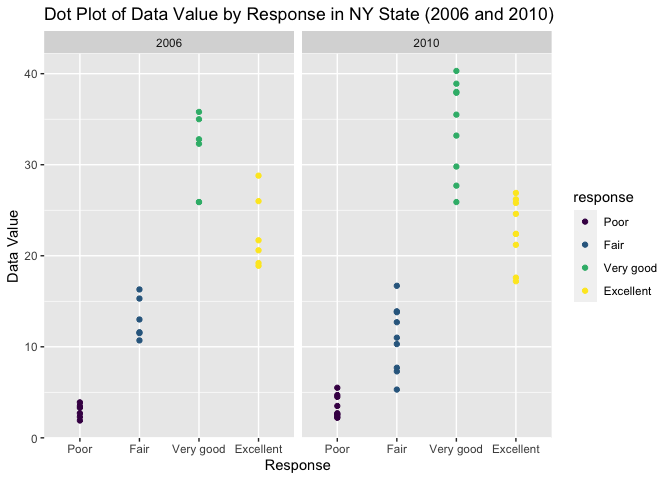
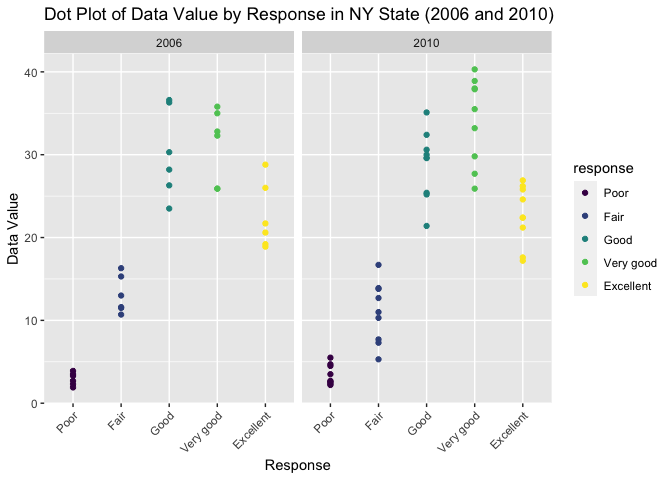
voila

diff --git a/p8105_hw3_co2554.md b/p8105_hw3_co2554.md
@@ -179,8 +179,8 @@ brfss_smart2010 |>
   separate(locationdesc, into = c("state", "county"), " - ") |> 
   select(-locationabbr) |>
   filter(topic == "Overall Health" & 
-         response %in% c("Excellent", "Very good", "good", "Fair", "Poor")) |> 
-  mutate(response = factor(response, levels = c("Poor", "Fair", "good", "Very good", "Excellent"), ordered = TRUE))
+         response %in% c("Excellent", "Very good", "Good", "Fair", "Poor")) |> 
+  mutate(response = factor(response, levels = c("Poor", "Fair", "Good", "Very good", "Excellent"), ordered = TRUE))
 ```
 
 Let’s determine how many states were observed at 7 or more locations in
@@ -199,42 +199,42 @@ brfss_smart2010_df |>
 
 | state | geo_location |
 |:------|-------------:|
-| AZ    |            8 |
-| CO    |           16 |
-| CT    |           28 |
-| DE    |           12 |
-| FL    |           28 |
-| GA    |           12 |
-| HI    |           16 |
-| ID    |            8 |
-| IL    |           12 |
-| IN    |            8 |
-| KS    |           12 |
-| LA    |           12 |
-| MA    |           32 |
-| MD    |           24 |
-| ME    |            8 |
-| MI    |           16 |
-| MN    |           16 |
-| MO    |            8 |
-| NC    |           28 |
-| NE    |           12 |
-| NH    |           20 |
-| NJ    |           32 |
-| NV    |            8 |
-| NY    |           20 |
-| OH    |           16 |
-| OK    |           12 |
-| OR    |           12 |
-| PA    |           40 |
-| RI    |           16 |
-| SC    |           12 |
-| SD    |            8 |
-| TN    |            8 |
-| TX    |            8 |
-| UT    |           20 |
-| VT    |           12 |
-| WA    |           16 |
+| AZ    |           10 |
+| CO    |           20 |
+| CT    |           35 |
+| DE    |           15 |
+| FL    |           35 |
+| GA    |           15 |
+| HI    |           20 |
+| ID    |           10 |
+| IL    |           15 |
+| IN    |           10 |
+| KS    |           15 |
+| LA    |           15 |
+| MA    |           40 |
+| MD    |           30 |
+| ME    |           10 |
+| MI    |           20 |
+| MN    |           20 |
+| MO    |           10 |
+| NC    |           35 |
+| NE    |           15 |
+| NH    |           25 |
+| NJ    |           40 |
+| NV    |           10 |
+| NY    |           25 |
+| OH    |           20 |
+| OK    |           15 |
+| OR    |           15 |
+| PA    |           50 |
+| RI    |           20 |
+| SC    |           15 |
+| SD    |           10 |
+| TN    |           10 |
+| TX    |           10 |
+| UT    |           25 |
+| VT    |           15 |
+| WA    |           20 |
 
 …and for the year 2010:
 
@@ -249,51 +249,51 @@ brfss_smart2010_df |>
 
 | state | geo_location |
 |:------|-------------:|
-| AL    |           12 |
-| AR    |           12 |
-| AZ    |           12 |
-| CA    |           48 |
-| CO    |           28 |
-| CT    |           20 |
-| DE    |           12 |
-| FL    |          164 |
-| GA    |           16 |
-| HI    |           16 |
-| IA    |            8 |
-| ID    |           24 |
-| IL    |            8 |
-| IN    |           12 |
-| KS    |           16 |
-| LA    |           20 |
-| MA    |           36 |
-| MD    |           48 |
-| ME    |           24 |
-| MI    |           16 |
-| MN    |           20 |
-| MO    |           12 |
-| MS    |            8 |
-| MT    |           12 |
-| NC    |           48 |
-| ND    |           12 |
-| NE    |           40 |
-| NH    |           20 |
-| NJ    |           76 |
-| NM    |           24 |
-| NV    |            8 |
-| NY    |           36 |
-| OH    |           32 |
-| OK    |           12 |
-| OR    |           16 |
-| PA    |           28 |
-| RI    |           20 |
-| SC    |           28 |
-| SD    |            8 |
-| TN    |           20 |
-| TX    |           64 |
-| UT    |           24 |
-| VT    |           24 |
-| WA    |           40 |
-| WY    |            8 |
+| AL    |           15 |
+| AR    |           15 |
+| AZ    |           15 |
+| CA    |           60 |
+| CO    |           35 |
+| CT    |           25 |
+| DE    |           15 |
+| FL    |          205 |
+| GA    |           20 |
+| HI    |           20 |
+| IA    |           10 |
+| ID    |           30 |
+| IL    |           10 |
+| IN    |           15 |
+| KS    |           20 |
+| LA    |           25 |
+| MA    |           45 |
+| MD    |           60 |
+| ME    |           30 |
+| MI    |           20 |
+| MN    |           25 |
+| MO    |           15 |
+| MS    |           10 |
+| MT    |           15 |
+| NC    |           60 |
+| ND    |           15 |
+| NE    |           50 |
+| NH    |           25 |
+| NJ    |           95 |
+| NM    |           30 |
+| NV    |           10 |
+| NY    |           45 |
+| OH    |           40 |
+| OK    |           15 |
+| OR    |           20 |
+| PA    |           35 |
+| RI    |           25 |
+| SC    |           35 |
+| SD    |           10 |
+| TN    |           25 |
+| TX    |           80 |
+| UT    |           30 |
+| VT    |           30 |
+| WA    |           50 |
+| WY    |           10 |
 
 In 2002, 36 states were observed at 7 or more locations. In 2010 45
 states were observed at 7 or more locations as well. This is a positive
@@ -346,7 +346,8 @@ ny_df =
   labs(title = "Dot Plot of Data Value by Response in NY State (2006 and 2010)",
        x = "Response",
        y = "Data Value") +
-  scale_color_viridis_d()
+  scale_color_viridis_d() +
+    theme(axis.text.x = element_text(angle = 45, hjust = 1))
 ```
 
 ![](p8105_hw3_co2554_files/figure-gfm/ny_plot-1.png)<!-- -->
@@ -357,7 +358,7 @@ From our output, we can see that `data_values` increase overall from
 
 ### Problem 3: MIMS NHANES Datasets
 
-### Let’s load, tidy, and merge these datasets.
+#### Let’s load, tidy, and merge these datasets.
 
 First, the demographics dataset.
 
@@ -438,8 +439,8 @@ ggplot(aes(x = education, y = age, fill = factor(sex))) +
        x = "Education Level",
        y = "Age",
        fill = "Gender") +
- scale_fill_viridis_d() +  # Apply Viridis color palette for fill
-  scale_color_viridis_d() + # Apply Viridis color palette for color
+ scale_fill_viridis_d() +  
+  scale_color_viridis_d() + 
   theme(axis.text.x = element_text(angle = 45, hjust = 1))
 ```
 
